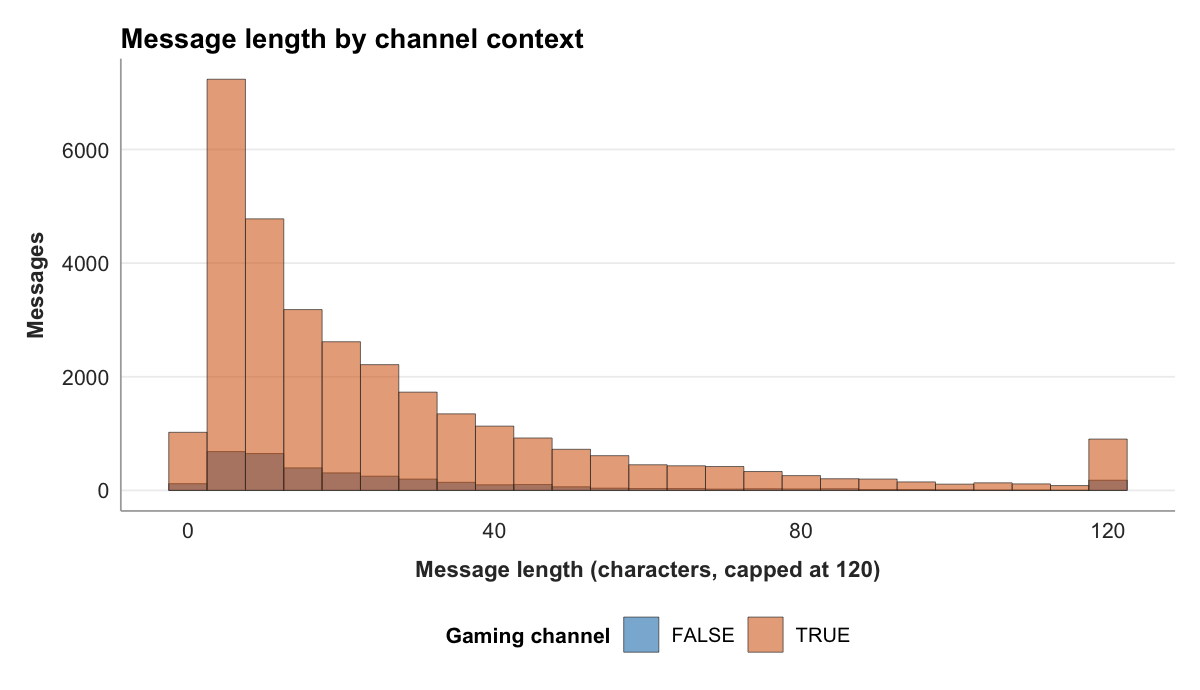
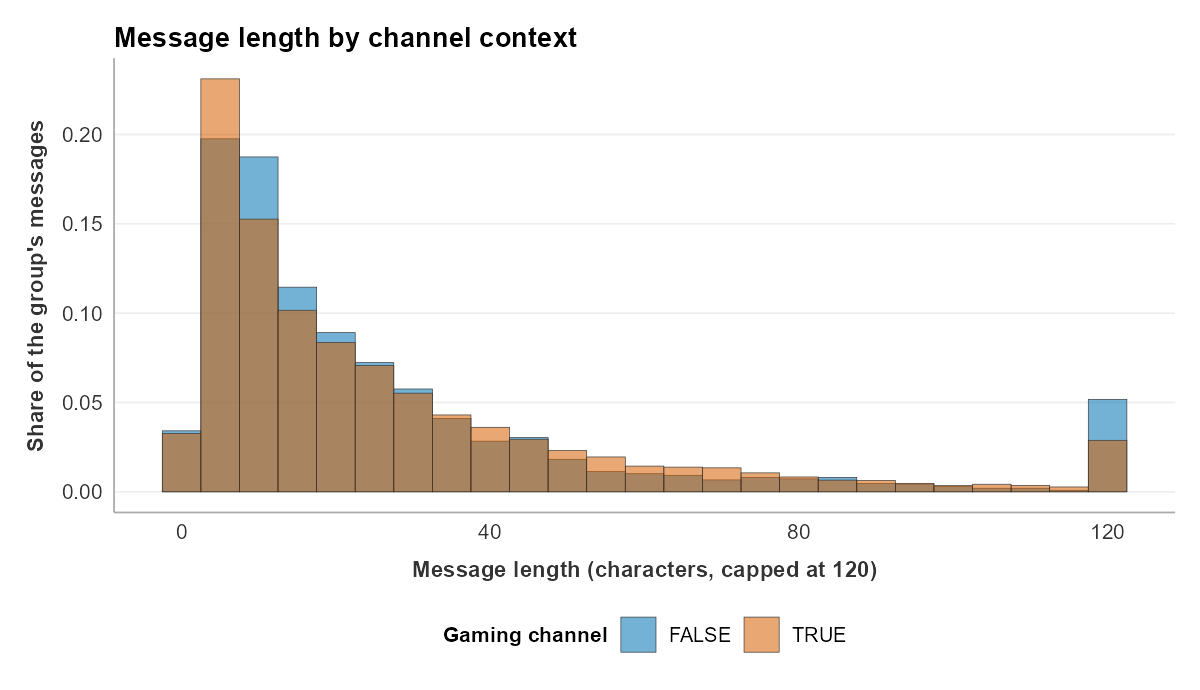
Chapters 11-14 follow-ups: Ch 12 shares figure, Ch 13 real chi-square output, Ch 14 deploy call, contrast floor
- Ch 12: the message-length histogram draws each group as shares
  (after_stat(density * width)), so each group's bars add up to 1 and the
  y label "Share of the group's messages" is true. Figure re-rendered from
  figures/render-all.R with v2v 0.3.6; the alt text gives the measured
  shares (under 20 characters 0.571 and 0.555; at the 120 cap 0.051 and
  0.028).
- Ch 13: the chi-square printout is the real v2v 0.3.6 output, including
  the smallest expected count (328.87) and the base-R equivalent, and the
  prose reads the expected-count line.
- Ch 14: v2v::deploy_portfolio("twitch-portfolio") names the project
  folder, with a sentence on the no-argument form inside the project.
- Chapters 11-13: the extension is the AURA Lab R Companion (0.6.0 name).
- custom.scss: text colors under the 5:1 house floor, all already live:
  pull-quotes rendered in the bright mark red, the audio and Graduate
  labels, grey chapter titles in the breadcrumb and page nav, and the
  string, constant, and function code tokens. web_qa on chapters 11-14
  goes from 43 findings to 0.

Changed region(s): [[0.0, 0.0304, 0.9867, 0.7913], [0.3392, 0.7913, 0.74, 0.8522], [0.37, 0.8826, 0.7092, 0.9435]]

diff --git a/custom.scss b/custom.scss
@@ -785,3 +785,34 @@ pre code span.at { color: #55611C !important; }
 // ============================================================
 #title-block-header.quarto-title-block.default .quarto-title-meta-heading { opacity: 1; }
 .callout.callout-style-default > div.callout-header { opacity: 1; }
+
+// ============================================================
+// a11y-2026-10-31 text-on-paper floor
+// The house floor is 5:1. Five text colors measured under it on the light
+// theme: the bright mark red $red (4.51:1 on paper, documented as non-text)
+// used as text on the audio label and the Graduate label and heading, and
+// on whole pull-quotes, because Quarto colors blockquotes with Bootstrap's
+// secondary color, which this theme sets to $red (the rule above intends
+// $ink); Bootstrap grey #6c757d (4.53:1) on the
+// chapter-title spans in the breadcrumb and page navigation; and three
+// highlighter tokens on the code surface: strings #20794D (4.60:1),
+// constants #8f5902 (5.00:1), and functions #4758AB (5.53:1 declared, but
+// thin glyphs measured 4.59:1 in rendered pixels). Replacements on $code-bg
+// #F1EDE4: #186640 5.96:1, #7A4C02 6.28:1, #3B4A97 6.88:1.
+// ============================================================
+.chapter-audio .audio-label,
+.graduate-extension::before,
+.graduate-extension > h3 { color: $maroon; }
+
+main blockquote { color: $ink !important; }
+main blockquote p { color: $ink; }
+
+.quarto-title-breadcrumbs .chapter-title,
+.nav-page-text .chapter-title { color: $muted !important; }
+
+code span.st, pre code span.st,
+code span.ss, pre code span.ss,
+code span.vs, pre code span.vs,
+code span.ch, pre code span.ch { color: #186640 !important; }
+code span.cn, pre code span.cn { color: #7A4C02 !important; }
+code span.fu, pre code span.fu { color: #3B4A97 !important; }
